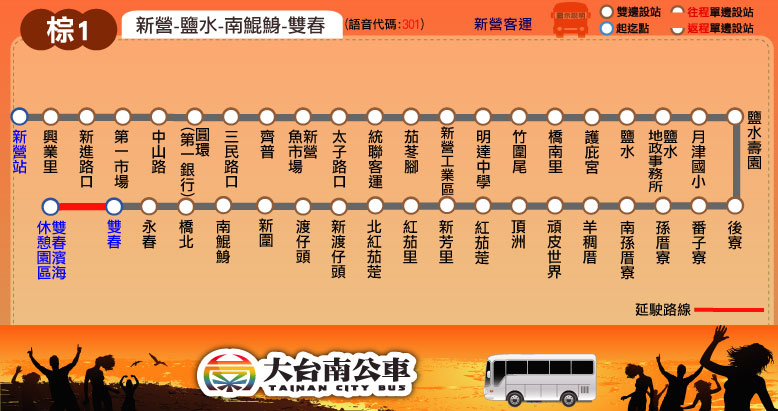
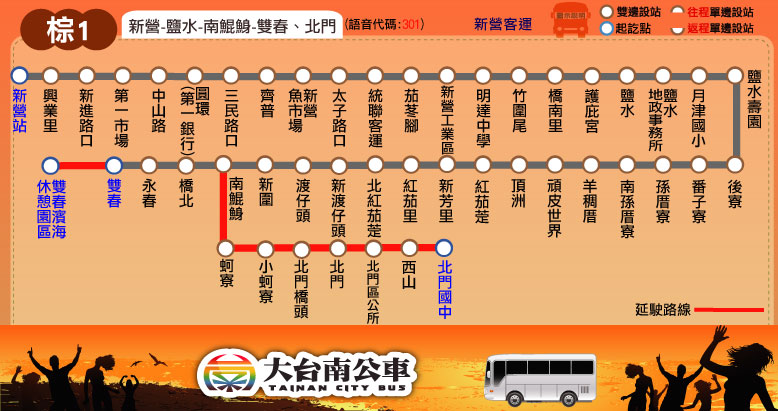
更新時刻表、路線圖、票價表：棕1(新增新營-北門國中班次)

Changed region(s): [[0.0, 0.146, 0.9871, 0.7883], [0.1542, 0.0292, 0.4319, 0.0876], [0.7712, 0.0292, 0.8638, 0.0876]]

diff --git a/route/fare_and_time/brown_1.js b/route/fare_and_time/brown_1.js
@@ -16,35 +16,36 @@ brown_1_interval_stop = [ // 2017.12.08 checked
 ["渡仔頭","新圍"], // 渡子頭
 ["南鯤鯓"], // 南鯤鯓
 ["橋北","永春","雙春"], // 雙春
-["雙春濱海休憩園區"] // 雙春濱海遊憩區
+["雙春濱海休憩園區","蚵寮","小蚵寮","北門橋頭","北門","北門區公所","西山","北門國中"] // 雙春濱海遊憩區
 ];
 brown_1_fare = [
 [26],
 [26,26],
-[26,26,26],
-[34,26,26,26],
-[40,26,26,26,26],
-[46,30,26,26,26,26],
-[50,34,26,26,26,26,26],
-[55,39,31,26,26,26,26,26],
-[59,43,35,26,26,26,26,26,26],
-[62,46,37,28,26,26,26,26,26,26],
-[65,49,40,31,26,26,26,26,26,26,26],
-[68,52,43,34,27,26,26,26,26,26,26,26],
-[73,57,48,39,33,27,26,26,26,26,26,26,26],
-[77,61,53,43,37,31,27,26,26,26,26,26,26,26],
-[88,72,63,54,47,42,38,33,26,26,26,26,26,26,26],
-[97,81,72,63,56,51,47,42,37,35,32,29,26,26,26,26],
-[105,89,80,71,64,59,55,50,45,43,40,37,26,26,26,26,26]
+[29,26,26],
+[38,26,26,26],
+[44,26,26,26,26],
+[50,30,26,26,26,26],
+[54,34,26,26,26,26,26],
+[59,39,31,26,26,26,26,26],
+[63,43,35,26,26,26,26,26,26],
+[66,46,37,28,26,26,26,26,26,26],
+[69,49,40,31,26,26,26,26,26,26,26],
+[72,52,43,34,27,26,26,26,26,26,26,26],
+[77,57,48,39,33,27,26,26,26,26,26,26,26],
+[81,61,53,43,37,31,27,26,26,26,26,26,26,26],
+[92,72,63,54,47,42,38,33,26,26,26,26,26,26,26],
+[101,81,72,63,56,51,47,42,37,35,32,29,26,26,26,26],
+[109,89,80,71,64,59,55,50,45,43,40,37,26,26,26,26,26]
 ];
 // format = [time at the start stop] or
 // [time, other] or
 // [time, start_stop, end_stop, other]
-brown_1_main_stop_name = ["新營站","第一市場","鹽水","頑皮世界","新芳里","南鯤鯓","雙春","雙春濱海<br />休憩園區"];
-brown_1_main_stop_time_consume = [0, 4, 21, 36, 42, 57, 61, 65];
-brown_1_important_stop = [0, 2, 3, 5, 6, 7]; // 新營站, 鹽水, 頑皮世界, 南鯤鯓, 雙春, 雙春濱海遊憩區
+brown_1_main_stop_name = ["新營站","第一市場","鹽水","頑皮世界","新芳里","南鯤鯓","北門國中","雙春","雙春濱海<br />休憩園區"];
+brown_1_main_stop_time_consume = [0, 4, 21, 34, 39, 53, 60, 57, 60];
+brown_1_important_stop = [0, 2, 3, 5, 8]; // 新營站, 鹽水, 頑皮世界, 南鯤鯓, 雙春濱海休憩園區
 var start_stop = 0; // 新營
-var end_stop = 6; // 雙春
+var beimen_juniorhigh = 6; // 北門國中
+var end_stop = 7; // 雙春
 var stop_1 = 2; // 鹽水
-brown_1_time_go = [["07:20"],["09:45"],["10:20"],["11:45"],["14:25"],["17:50",[[stop_1,1,stop_1+1,2]]]];
-brown_1_time_return = [["05:50",end_stop,start_stop,[[stop_1+1,2,stop_1,1,start_stop,1]]],["08:35"],["11:00"],["11:35"],["13:00"],["15:40"]];
+brown_1_time_go = [["06:20",start_stop,beimen_juniorhigh],["07:20",[beimen_juniorhigh]],["09:45",[beimen_juniorhigh]],["10:20",[beimen_juniorhigh]],["11:45",[beimen_juniorhigh]],["14:25",[beimen_juniorhigh]],["16:05",start_stop,beimen_juniorhigh],["17:50",[beimen_juniorhigh,[stop_1+1,2,stop_1+2,1,beimen_juniorhigh-1,4,end_stop+1,1]]]];
+brown_1_time_return = [["05:50",end_stop,start_stop,[beimen_juniorhigh,[beimen_juniorhigh-2,1,stop_1+1,3,stop_1,3,start_stop,1]]],["07:25",beimen_juniorhigh,start_stop],["08:35",[beimen_juniorhigh,[stop_1,2]]],["11:00",[beimen_juniorhigh,[stop_1,2]]],["11:35",[beimen_juniorhigh,[stop_1,2]]],["13:00",[beimen_juniorhigh,[stop_1,2]]],["15:40",[beimen_juniorhigh,[stop_1,2]]],["17:10",beimen_juniorhigh,start_stop]];

diff --git a/brown/brown_1.html b/brown/brown_1.html
@@ -7,7 +7,7 @@
 	route_name_en = 'Brown 1';
 	route_file_name = 'brown_1';
 	route_type = 'brown';
-	route_interval = ['新營','鹽水','南鯤鯓','雙春'];
+	route_interval = ['新營','雙春、北門'];
 </script>
 <script src="../tools/web_model.js"></script> 
 <script type="text/javascript">
@@ -20,7 +20,7 @@
 	block_route_map(null);
 	block_route_info(route_interval,'新營客運','','里程計費','http://www.2384.com.tw/ebus/jsp/ajaxBus.jsp?pathId=1301&locale=zh_TW');
 	block_fare(0, null);
-	block_time_schedule('新營','雙春','');
+	block_time_schedule('新營','雙春/北門國中','');
 	block_transfer(transfer_hsinyin + transfer_yanshui + transfer_south_kunshen);
 	block_copyright();
 </script>

diff --git a/tools/route_infor.js b/tools/route_infor.js
@@ -52,7 +52,7 @@ red_13_route = '關廟 ─ 阿蓮';
 red_14_route = '關廟 ─ 高鐵臺南站 ─ 長榮大學';
 
 brown_route = '新營 ─ 鹽水 ─ 學甲 ─ 佳里';
-brown_1_route = '新營 ─ 鹽水 ─ 南鯤鯓 ─ 雙春';
+brown_1_route = '新營 ─ 鹽水 ─ 南鯤鯓 ─ 雙春、北門';
 brown_2_route = '新營 ─ 鹽水 ─ 下中';
 brown_3_route = '新營 ─ 鹽水 ─ 南港里';
 brown_3_1_route = '新營 ─ 鐵線里';
